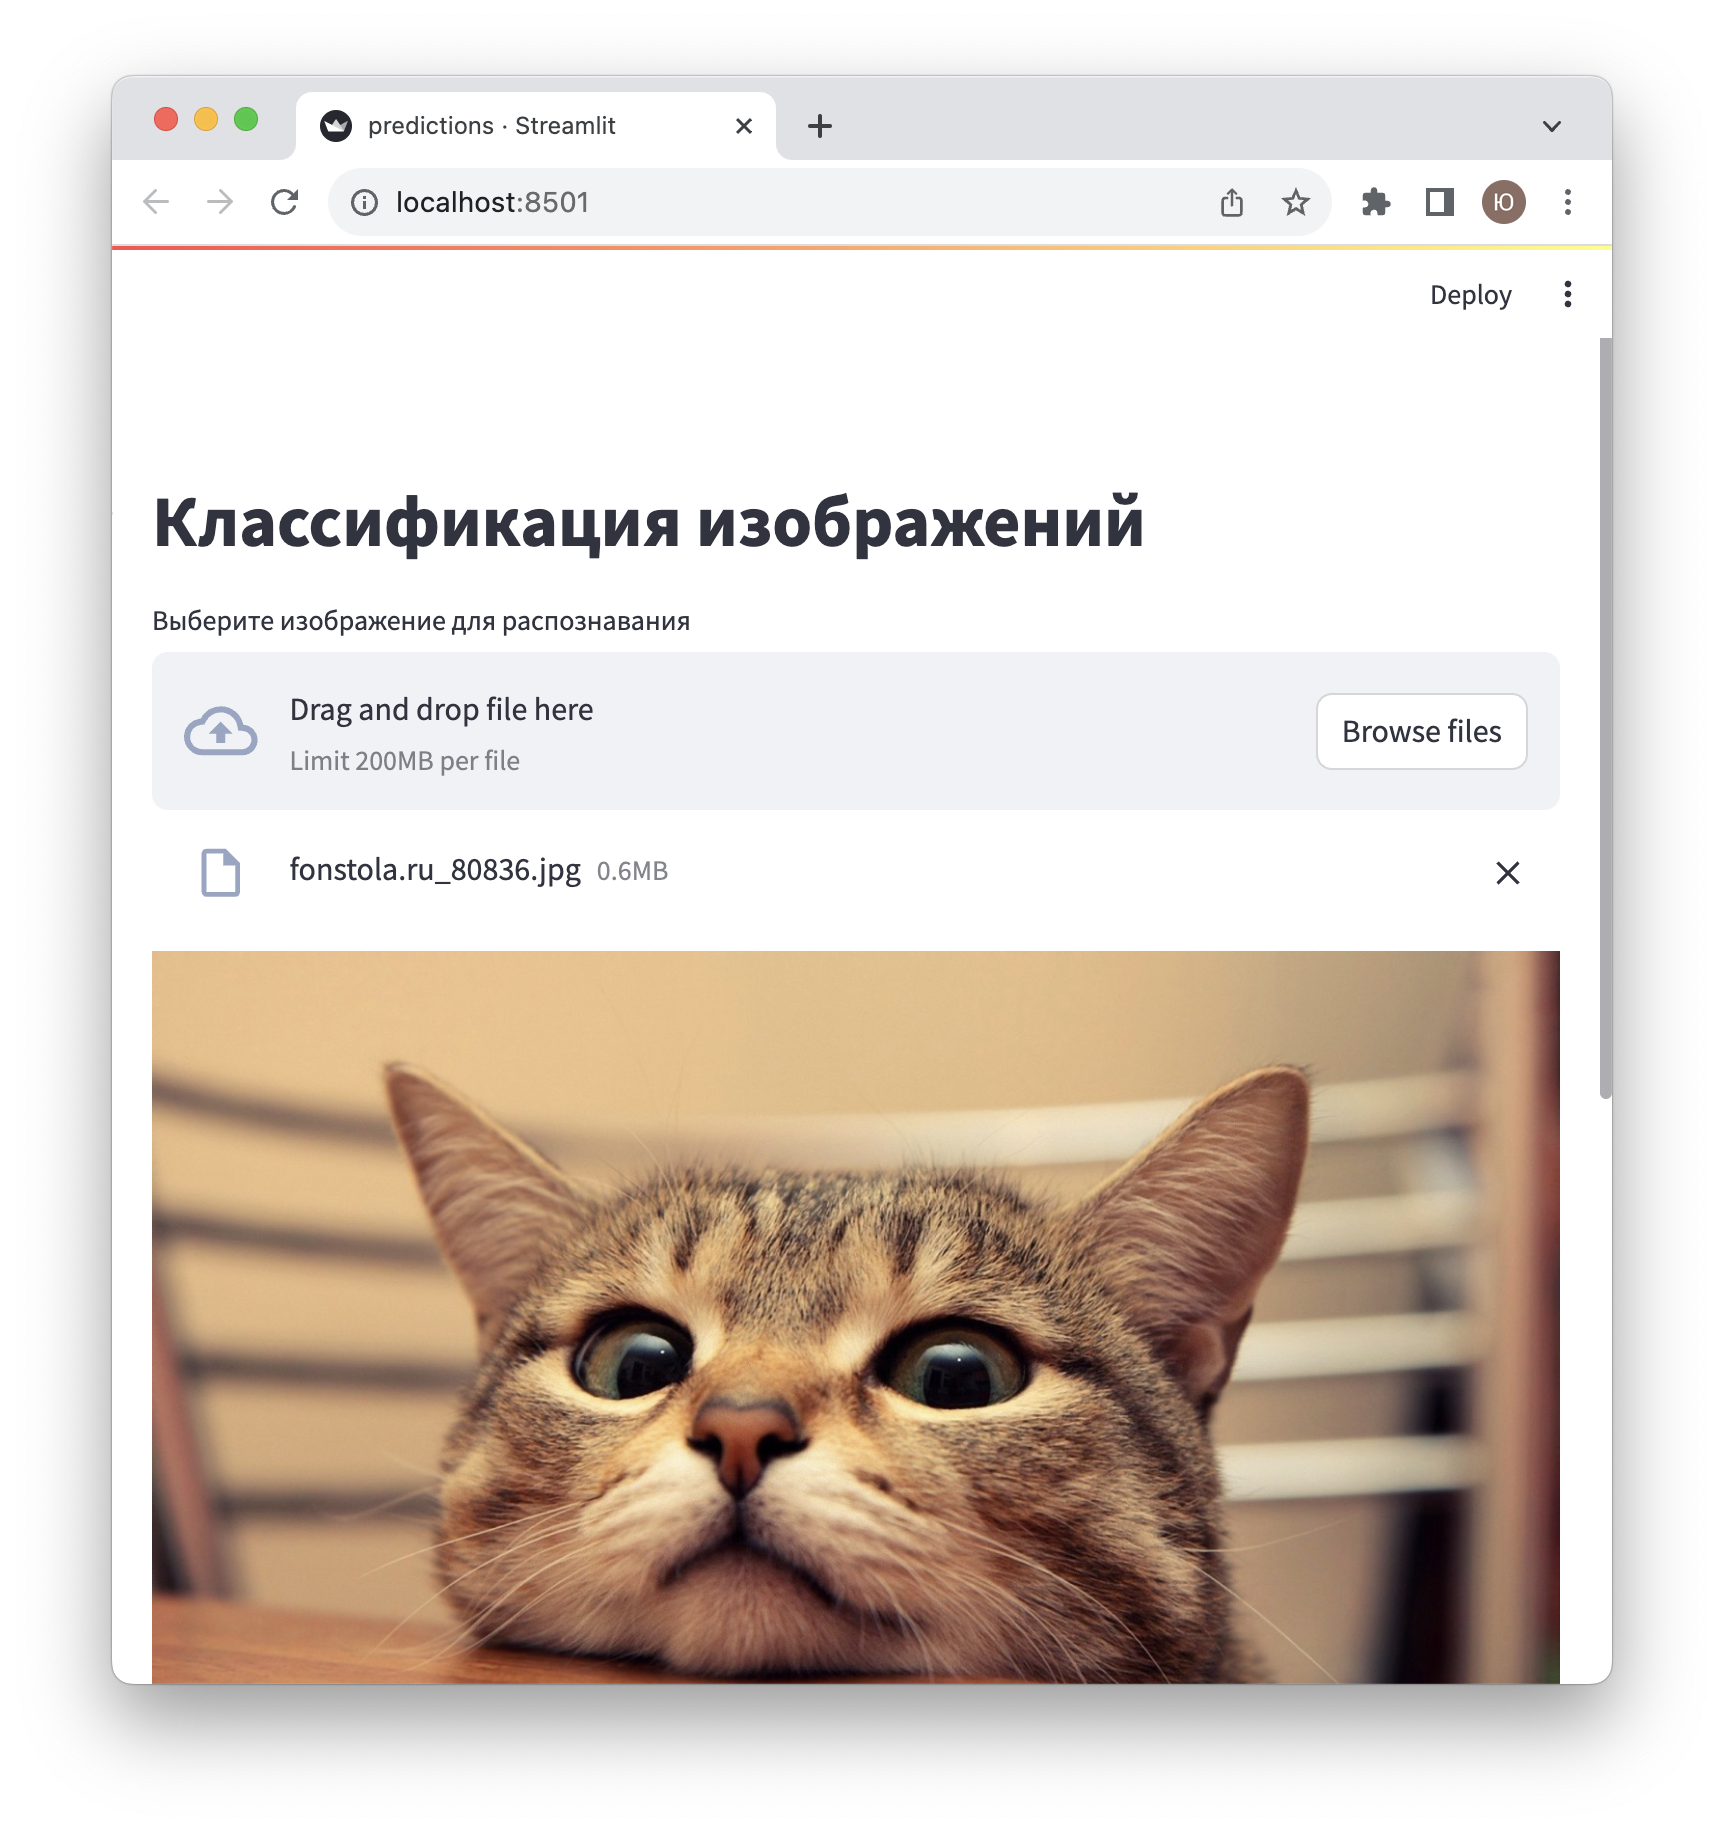
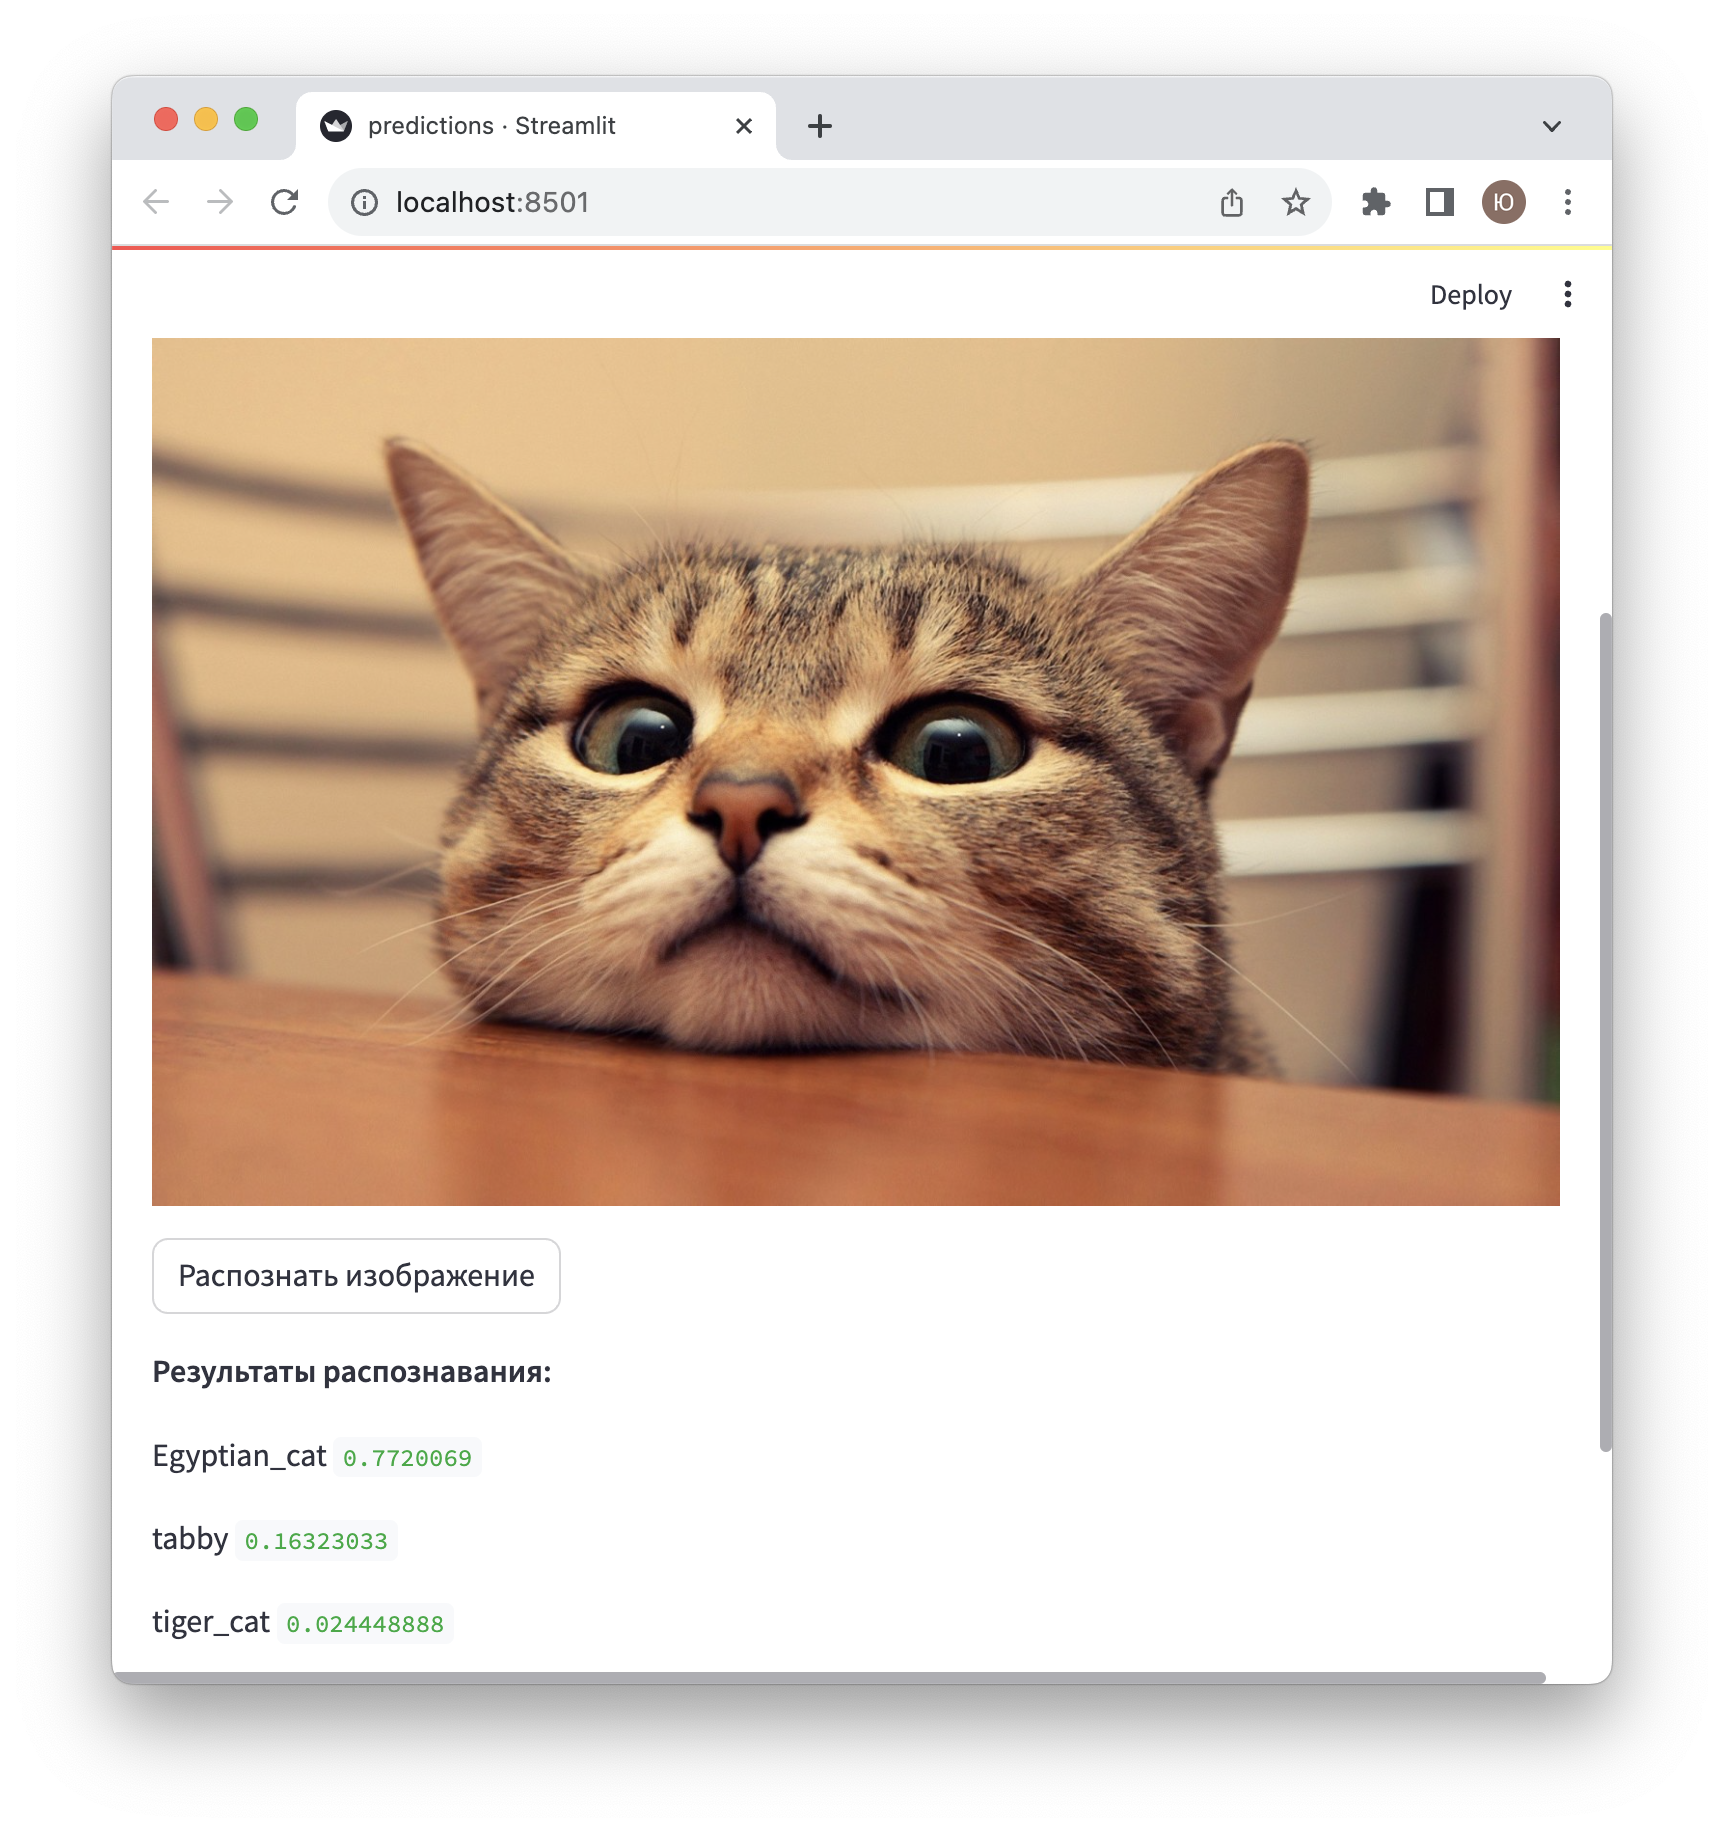
HW2: Добавление скриншотов рабочего приложения в readme

diff --git a/README.md b/README.md
@@ -36,12 +36,12 @@ streamlit run ./hw2/predictions.py
 
 Загрузить картинку
 
-![Screenshot 1](https://github.com/vvsergey/sof-_engr_for_130962_gr_2.9/blob/main/hw2/screenshot_1.png?raw=true)
+![Screenshot 1](https://github.com/vvsergey/sof-_engr_for_130962_gr_2.9/blob/main/hw2/screenshot_1.png)
 Нажать кнопку "Распознать изображение"
 
 Результат классификации выведится на экран
 
-![Screenshot 1](https://github.com/vvsergey/sof-_engr_for_130962_gr_2.9/blob/main/hw2/screenshot_1.png)
+![Screenshot 2](https://github.com/vvsergey/sof-_engr_for_130962_gr_2.9/blob/main/hw2/screenshot_2.png)
 
 ## Home work 3
 ### Запатоцкий Ю.М., Сергеев В.В.
